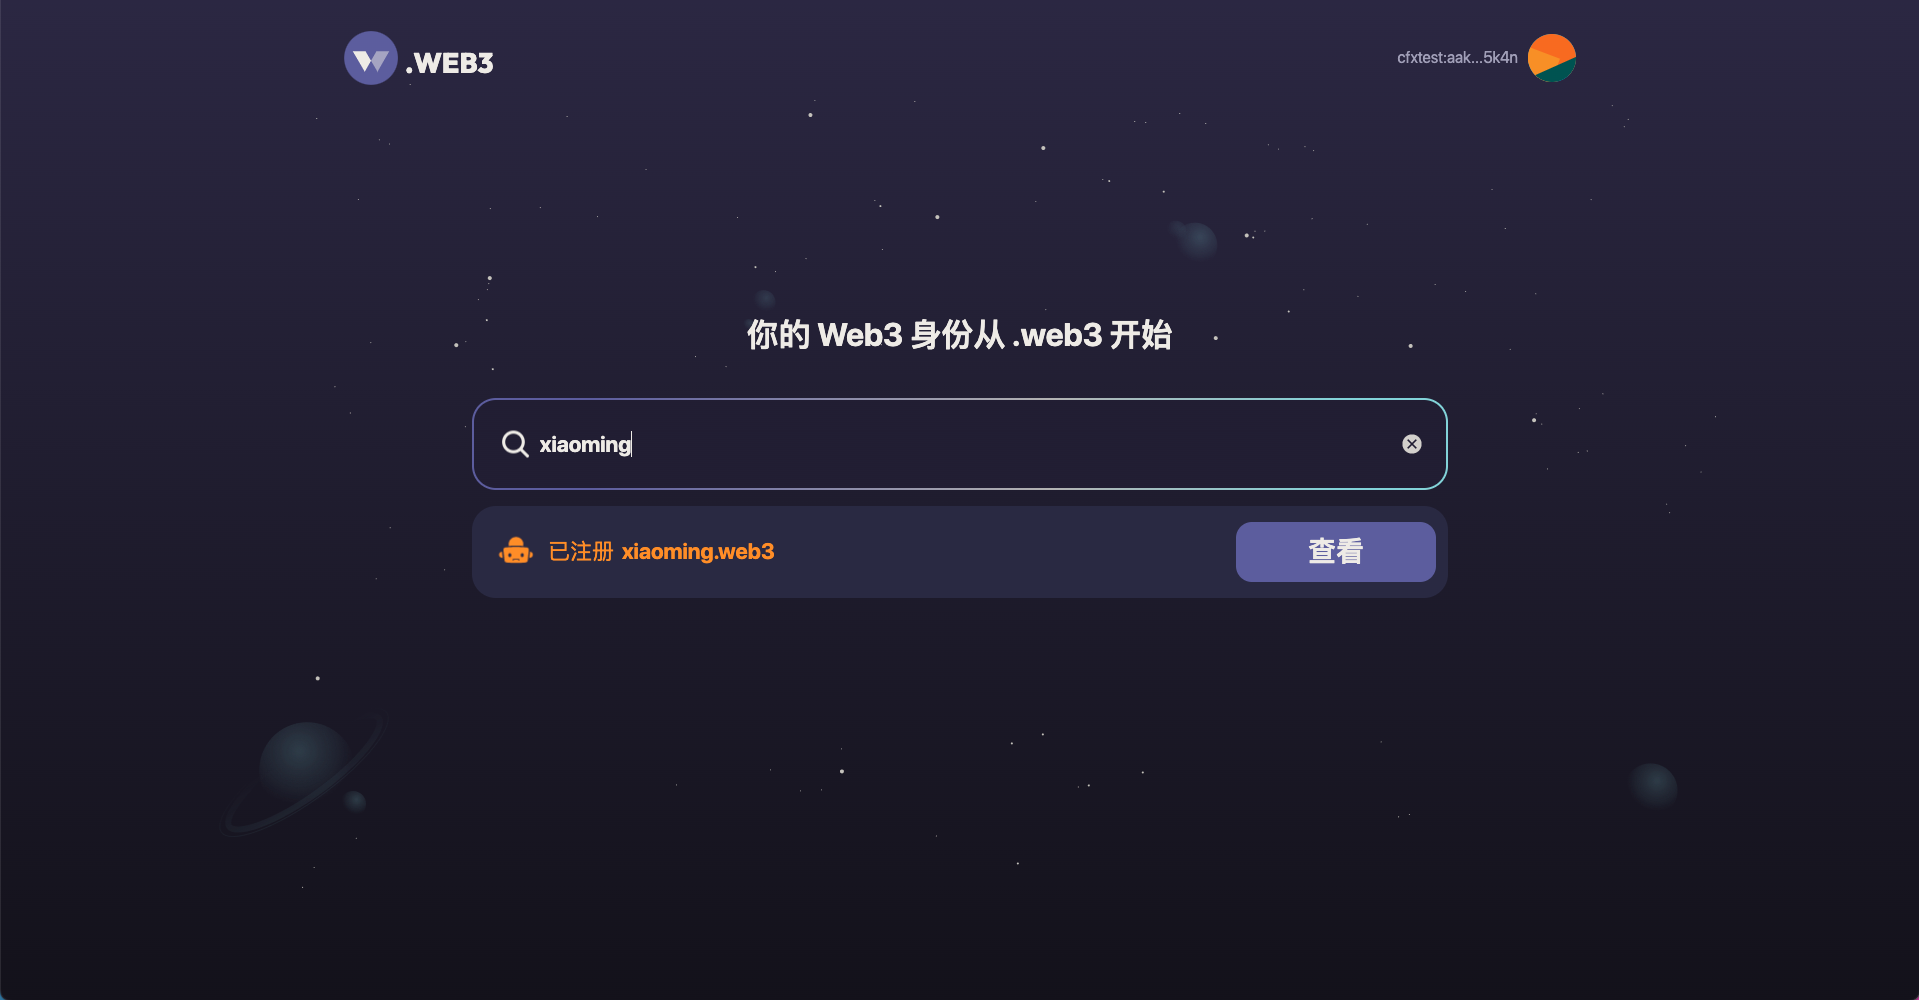
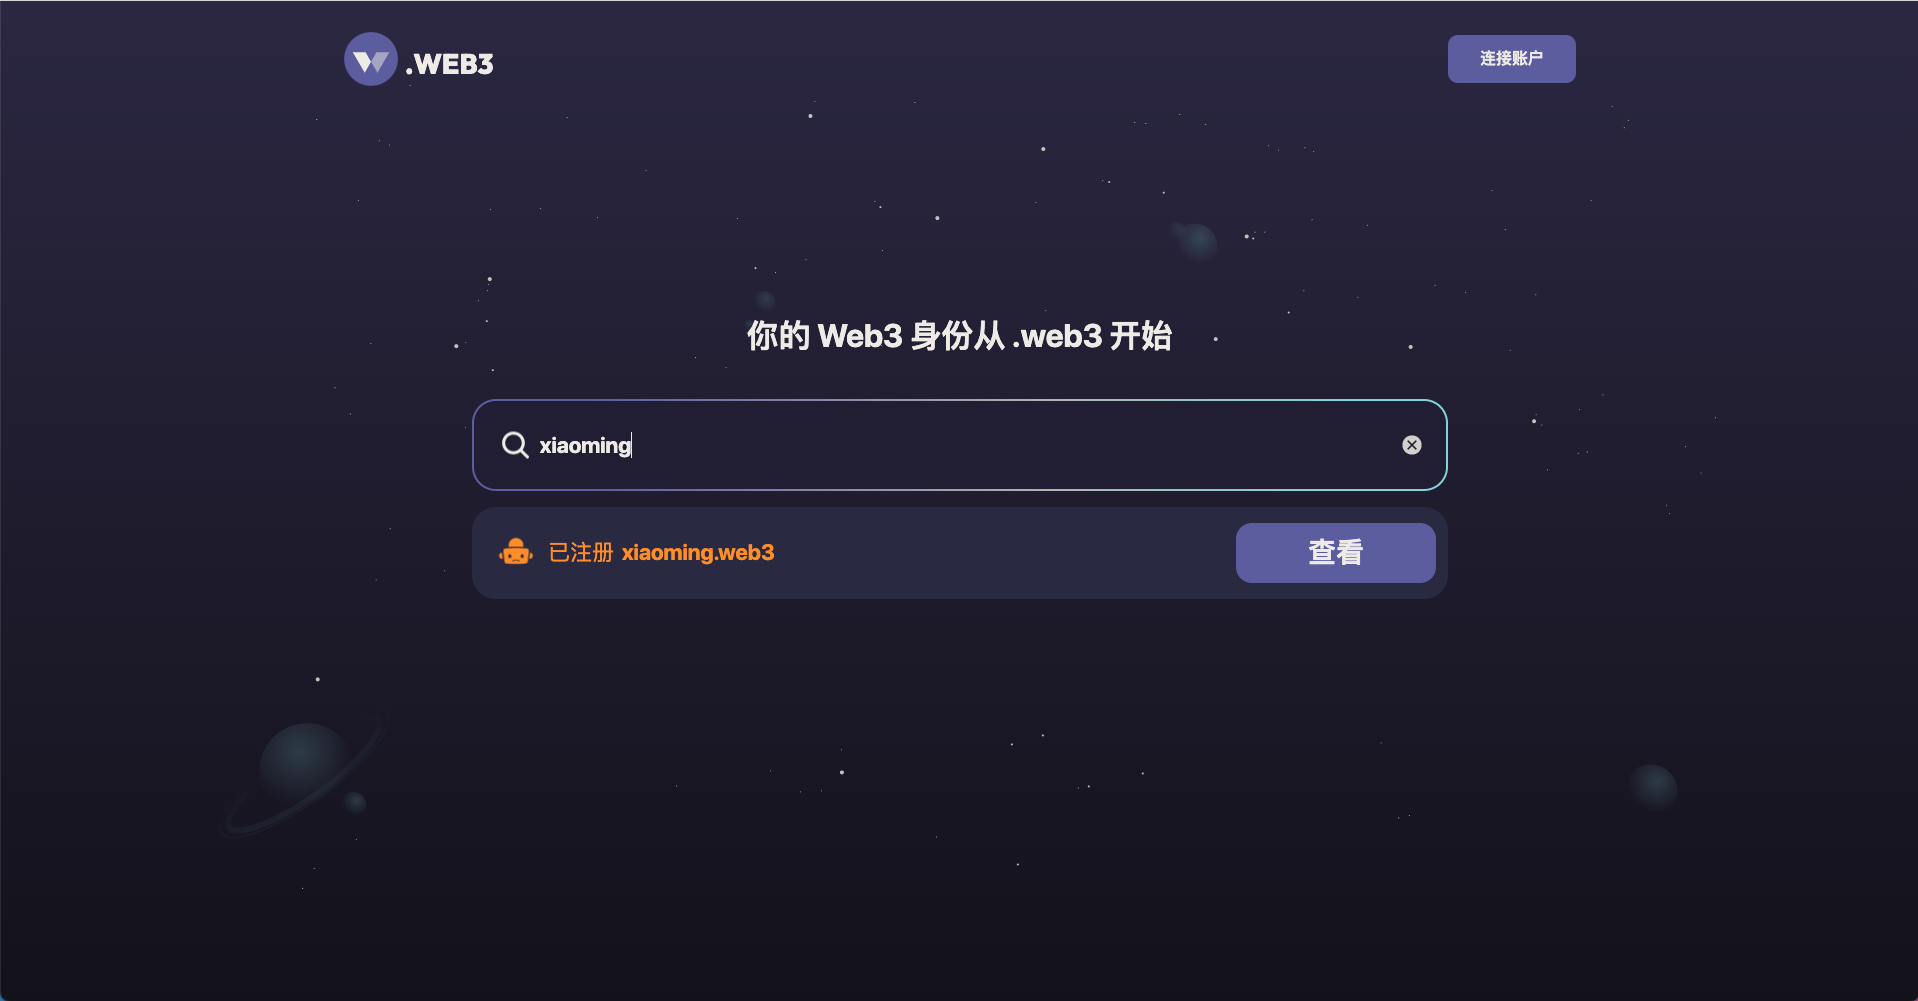
GITBOOK-43: No subject

diff --git a/README.md b/README.md
@@ -1,56 +1,40 @@
-# 如何注册 .web3 用户名？
+# 什么是 .web3 用户名
 
-#### 步骤一：
+Conflux .web3 用户名是一个基于 Conflux 树图区块链的分布式，开放，可扩展的用户名系统。
 
-访问 .web3 用户名网站：[https://app.web3verse.space/](https://app.web3verse.space/)（以下截图来自测试环境）
+.web3 用户名的工作是将人类可读的名称，映射到复杂的区块链地址上。让用户在使用场景中得到更好的体验。
 
-#### 步骤二：
+比如：用 <mark style="color:purple;">**xiaoming.web3**</mark> 来表示 <mark style="color:purple;">**cfx:acf...0tsw35j7**</mark>，通过这种方式，大大的降低区块链的使用门槛，是实现区块链系统的大规模应用的最重要的一步。
 
-输入你想要注册的用户名，并点击注册
+<figure><img src=".gitbook/assets/image.png" alt=""><figcaption></figcaption></figure>
 
-<figure><img src=".gitbook/assets/image (9).png" alt=""><figcaption><p>此用户名可以注册</p></figcaption></figure>
+基于 Conflux 树图区块链的 .web3 用户名，本质上是将用户名与区块链地址的映射关系，存入在智能合约中，具有开放，可扩展的诸多好处。
 
-<figure><img src=".gitbook/assets/image.png" alt=""><figcaption><p>如果此用户名被注册了，会提示已注册</p></figcaption></figure>
+让原本理性冰冷的计算机网络系统，变得充满人文气息，也将为未来的 Conflux 树图区块链的**应用生态**、**合规性**带来更多可能
 
-#### 步骤三：
 
-进入注册流程，首先要连接账户
 
-<figure><img src=".gitbook/assets/image (2).png" alt=""><figcaption></figcaption></figure>
+对用户来说：
 
-可以从 Fluent、AnyWeb、Cellar 选择任意一种方式，授权 Web3 账户登录
+* **容易记忆**：Conflux「 .web3 用户名 」更利于人们记忆，可以更好地感受到 Web3 的友好和魅力。
+* **社交属性**：将用户名唯一标识符，来索引你在区块链上的身份和信息。也可以用于社交展示，打造个人品牌。
+* **身份自主**：基于 Web3 技术栈的去中心化数据，无需第三方参与管理数据，真正拥有对个人身份、个人信息的控制权和使用权。
 
-* AnyWeb 和 Cellar 都提供了通过手机号登录的方式；
-* Fluent 是一个无托管的 Web3 的浏览器插件钱包工具；
 
-<figure><img src=".gitbook/assets/image (3).png" alt=""><figcaption><p>选择任何一种钱包连接 </p></figcaption></figure>
 
-#### 步骤四：在钱包中确认
+对应用/品牌方/ IP 方来说：
 
-点击申请后，在弹出的钱包确认框中确认交易；
+* **可组合性乐高**：App 可以通过引用 Conflux「 .web3 用户名 」和 Web3 身份系统，更专注自己核心业务的研发，也可以探索出更多可玩性更强的应用。
+* **破解数据孤岛：**进一步解决互联网应用的数据孤岛问题。
+* **品牌价值**：品牌方/IP 方可以基于 Conflux「 .web3 用户名 」，更好地和用户互动，建立真正属于品牌自己的社群，树立品牌形象。
 
-等待转圈圈结束后，即进入支付步骤；
 
-<figure><img src=".gitbook/assets/image (10).png" alt=""><figcaption><p>等待转圈圈结束即可</p></figcaption></figure>
 
-#### 步骤五：
+**合规性**
 
-进入支付流程后，通过支付宝扫码完成支付即可
+Conflux .web3 用户名，基于国内合规的 Conflux 树图区块链。
 
-<figure><img src=".gitbook/assets/image (6).png" alt=""><figcaption></figcaption></figure>
+用户注册 .web3 用户名需要使用人民币支付。提供与 Web2 相同的流程和用户体验。与国际上主流的区块链不同，.web3 用户名全程无需购买代币支付燃气费。
 
-#### 注册成功：
+目前 .web3 用户名正在 “合规的 Web3 应用” 的方向上不断探索，希望早日实现 Web3 应用的大规模使用。
 
-稍微等待一段时间后，看到以下页面注册完成啦！
-
-<figure><img src=".gitbook/assets/image (5).png" alt=""><figcaption></figcaption></figure>
-
-**最后一步：**
-
-想要使用用户名的全部功能，则需要将用户名 “设为展示”（反向解析）
-
-点击按钮后，在钱包中确认完成即可
-
-<figure><img src=".gitbook/assets/image (1).png" alt=""><figcaption></figcaption></figure>
-
-完成以上全部操作，你的用户名就设置完成了！

diff --git a/README (1).md b/README (1).md
@@ -1,0 +1,56 @@
+# 如何注册 .web3 用户名？
+
+#### 步骤一：
+
+访问 .web3 用户名网站：[https://app.web3verse.space/](https://app.web3verse.space/)（以下截图来自测试环境）
+
+#### 步骤二：
+
+输入你想要注册的用户名，并点击注册
+
+<figure><img src=".gitbook/assets/image (9).png" alt=""><figcaption><p>此用户名可以注册</p></figcaption></figure>
+
+<figure><img src=".gitbook/assets/image (8).png" alt=""><figcaption><p>如果此用户名被注册了，会提示已注册</p></figcaption></figure>
+
+#### 步骤三：
+
+进入注册流程，首先要连接账户
+
+<figure><img src=".gitbook/assets/image (2).png" alt=""><figcaption></figcaption></figure>
+
+可以从 Fluent、AnyWeb、Cellar 选择任意一种方式，授权 Web3 账户登录
+
+* AnyWeb 和 Cellar 都提供了通过手机号登录的方式；
+* Fluent 是一个无托管的 Web3 的浏览器插件钱包工具；
+
+<figure><img src=".gitbook/assets/image (3).png" alt=""><figcaption><p>选择任何一种钱包连接 </p></figcaption></figure>
+
+#### 步骤四：在钱包中确认
+
+点击申请后，在弹出的钱包确认框中确认交易；
+
+等待转圈圈结束后，即进入支付步骤；
+
+<figure><img src=".gitbook/assets/image (10).png" alt=""><figcaption><p>等待转圈圈结束即可</p></figcaption></figure>
+
+#### 步骤五：
+
+进入支付流程后，通过支付宝扫码完成支付即可
+
+<figure><img src=".gitbook/assets/image (6).png" alt=""><figcaption></figcaption></figure>
+
+#### 注册成功：
+
+稍微等待一段时间后，看到以下页面注册完成啦！
+
+<figure><img src=".gitbook/assets/image (5).png" alt=""><figcaption></figcaption></figure>
+
+**最后一步：**
+
+想要使用用户名的全部功能，则需要将用户名 “设为展示”（反向解析）
+
+点击按钮后，在钱包中确认完成即可
+
+<figure><img src=".gitbook/assets/image (1).png" alt=""><figcaption></figcaption></figure>
+
+完成以上全部操作，你的用户名就设置完成了！

diff --git a/SUMMARY.md b/SUMMARY.md
@@ -2,7 +2,8 @@
 
 ## User Tutorial
 
-* [如何注册 .web3 用户名？](README.md)
+* [什么是 .web3 用户名](README.md)
+* [如何注册 .web3 用户名？](<README (1).md>)
 * [必须要知道关于正向解析和反向解析](user-tutorial/bi-xu-yao-zhi-dao-guan-yu-zheng-xiang-jie-xi-he-fan-xiang-jie-xi.md)
 
 ## Dev Tutorial
